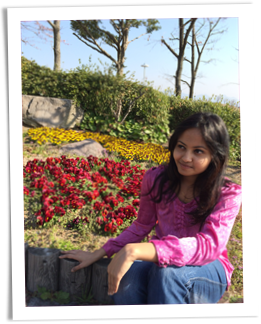
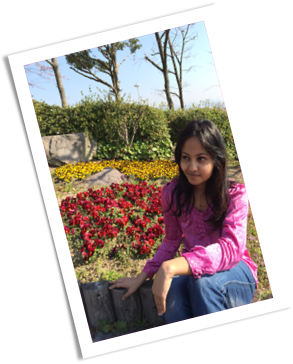
flora

diff --git a/index.html b/index.html
@@ -8,9 +8,9 @@
 </head>
 <body>
 <div id="container">
-<div id="wb_Image3" style="position:absolute;left:0px;top:1px;width:988px;height:1258px;z-index:0;">
+<div id="wb_Image3" style="position:absolute;left:0px;top:7px;width:988px;height:1258px;z-index:0;">
 <img src="images/img0011.png" id="Image3" alt=""></div>
-<div id="wb_Image2" style="position:absolute;left:625px;top:238px;width:261px;height:324px;z-index:1;">
+<div id="wb_Image2" style="position:absolute;left:300px;top:545px;width:293px;height:364px;z-index:1;">
 <img src="images/img0005.png" id="Image2" alt=""></div>
 <div id="wb_ClipArt1" style="position:absolute;left:127px;top:69px;width:246px;height:62px;z-index:2;">
 <img src="images/img0001.png" id="ClipArt1" alt="" style="width:246px;height:62px;"></div>
@@ -21,8 +21,8 @@
 <div id="wb_ClipArt2" style="position:absolute;left:609px;top:69px;width:246px;height:62px;z-index:5;">
 <img src="images/img0003.png" id="ClipArt2" alt="" style="width:246px;height:62px;"></div>
 <hr id="Line1" style="position:absolute;left:127px;top:67px;width:728px;height:1px;z-index:6;">
-<div id="wb_Text2" style="position:absolute;left:655px;top:173px;width:200px;height:72px;text-align:center;z-index:7;">
-<span style="color:#FFA07A;font-family:'Comic Sans MS';font-size:16px;">Hello, I am Badhan. I am cute, I am shweet, I am gudu, cutu, gudu gudu</span><span style="color:#FFA07A;font-family:'Comic Sans MS';font-size:11px;"><br></span></div>
+<div id="wb_Text2" style="position:absolute;left:293px;top:193px;width:213px;height:280px;text-align:center;z-index:7;">
+<span style="color:#FFA07A;font-family:'Comic Sans MS';font-size:29px;">Hello, I am Badhan. I am cute, I am shweet, I am gudu, cutu, gudu gudu<br></span></div>
 <div id="wb_Image4" style="position:absolute;left:40px;top:42px;width:165px;height:93px;z-index:8;">
 <img src="images/img0006.png" id="Image4" alt=""></div>
 <div id="wb_Image5" style="position:absolute;left:803px;top:40px;width:143px;height:97px;z-index:9;">
@@ -51,23 +51,23 @@
 <img src="images/img0017.png" id="Image7" alt=""></div>
 <div id="wb_Image8" style="position:absolute;left:467px;top:437px;width:349px;height:334px;z-index:17;">
 <img src="images/img0021.png" id="Image8" alt=""></div>
-<div id="wb_Image9" style="position:absolute;left:13px;top:606px;width:316px;height:352px;z-index:18;">
+<div id="wb_Image9" style="position:absolute;left:442px;top:657px;width:316px;height:352px;z-index:18;">
 <img src="images/img0130.png" id="Image9" alt=""></div>
 <hr id="Line3" style="position:absolute;left:127px;top:1168px;width:728px;height:1px;z-index:19;">
-<div id="wb_Image1" style="position:absolute;left:261px;top:175px;width:360px;height:433px;z-index:20;">
+<div id="wb_Image1" style="position:absolute;left:580px;top:174px;width:360px;height:433px;z-index:20;">
 <img src="images/img0004.png" id="Image1" alt=""></div>
-<div id="wb_Image10" style="position:absolute;left:25px;top:865px;width:283px;height:312px;z-index:21;">
-<img src="images/img0131.png" id="Image10" alt=""></div>
-<div id="wb_Image11" style="position:absolute;left:259px;top:558px;width:327px;height:368px;z-index:22;">
-<img src="images/img0132.png" id="Image11" alt=""></div>
-<div id="wb_Image12" style="position:absolute;left:296px;top:849px;width:282px;height:321px;z-index:23;">
+<div id="wb_Image12" style="position:absolute;left:288px;top:849px;width:290px;height:343px;z-index:21;">
 <img src="images/img0133.png" id="Image12" alt=""></div>
-<div id="wb_Image13" style="position:absolute;left:632px;top:541px;width:347px;height:352px;z-index:24;">
+<div id="wb_Image13" style="position:absolute;left:631px;top:557px;width:332px;height:340px;z-index:22;">
 <img src="images/img0134.png" id="Image13" alt=""></div>
-<div id="wb_Image14" style="position:absolute;left:541px;top:832px;width:376px;height:347px;z-index:25;">
+<div id="wb_Image14" style="position:absolute;left:541px;top:832px;width:376px;height:347px;z-index:23;">
 <img src="images/img0135.png" id="Image14" alt=""></div>
-<div id="wb_Image15" style="position:absolute;left:453px;top:705px;width:297px;height:325px;z-index:26;">
-<img src="images/img0136.png" id="Image15" alt=""></div>
+<div id="wb_Image11" style="position:absolute;left:855px;top:421px;width:478px;height:490px;z-index:24;">
+<img src="images/free-ornamental-floral-elements-vector.png" id="Image11" alt=""></div>
+<div id="wb_Image10" style="position:absolute;left:49px;top:569px;width:269px;height:562px;z-index:25;">
+<img src="images/hibiscus-hi.png" id="Image10" alt=""></div>
+<div id="wb_Image15" style="position:absolute;left:286px;top:7px;width:408px;height:193px;z-index:26;">
+<img src="images/set-watercolor-floral-composition-clip-art-peonies-illustration-greeting-cards-invitations-other-printing-projects-56975469.png" id="Image15" alt=""></div>
 </div>
 </body>
 </html>

diff --git a/index.css b/index.css
@@ -208,22 +208,6 @@ body
    width: 100%;
    height: 100%;
 }
-#Image10
-{
-   border-width: 0;
-   left: 0;
-   top: 0;
-   width: 100%;
-   height: 100%;
-}
-#Image11
-{
-   border-width: 0;
-   left: 0;
-   top: 0;
-   width: 100%;
-   height: 100%;
-}
 #Image12
 {
    border-width: 0;
@@ -248,9 +232,28 @@ body
    width: 100%;
    height: 100%;
 }
+#Image11
+{
+   border: 0px #000000 solid;
+   padding: 0px 0px 0px 0px;
+   left: 0;
+   top: 0;
+   width: 100%;
+   height: 100%;
+}
+#Image10
+{
+   border: 0px #000000 solid;
+   padding: 0px 0px 0px 0px;
+   left: 0;
+   top: 0;
+   width: 100%;
+   height: 100%;
+}
 #Image15
 {
-   border-width: 0;
+   border: 0px #000000 solid;
+   padding: 0px 0px 0px 0px;
    left: 0;
    top: 0;
    width: 100%;
